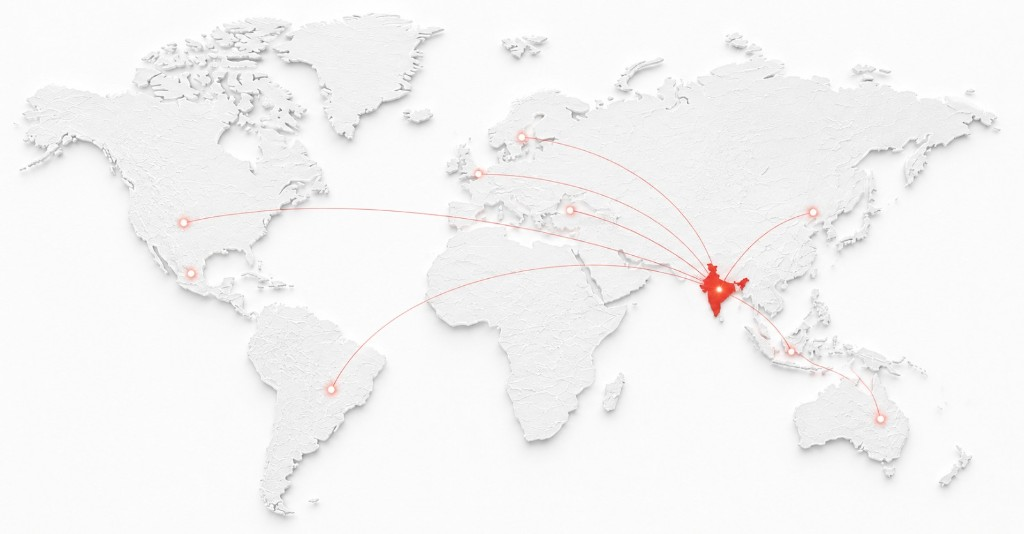
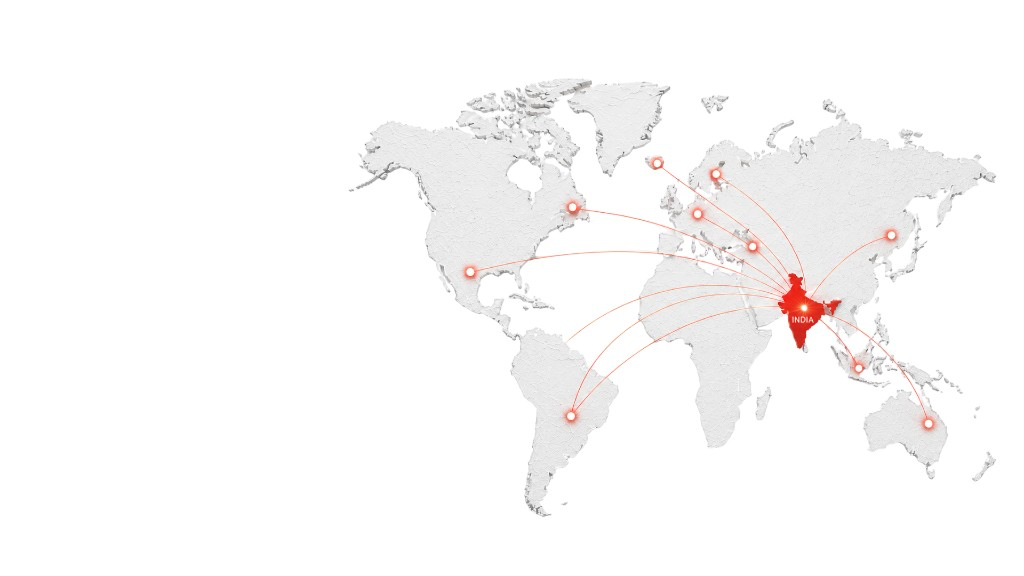
feat: Update HomePage hero section and content for enhanced user engagement
- Replaced the hero section background image with a new version for improved visuals.
- Adjusted image attributes for better accessibility and responsiveness.
- Refined the linear gradient overlay for a more appealing aesthetic.
- Enhanced content structure by updating headings, descriptions, and adding a call-to-action link to the About page.

diff --git a/src/components/home/HomePage.js b/src/components/home/HomePage.js
@@ -13,12 +13,13 @@ function Hero() {
       <div className="absolute inset-0 z-0 bg-white">
         <Image
           src="/images/hero-global-map.png"
-          alt="Bymer Elastomers global reach from India"
-          width={1024}
-          height={534}
+          alt=""
+          aria-hidden="true"
+          fill
           unoptimized
           priority
-          className="absolute right-0 top-1/2 -translate-y-1/2 h-full w-auto max-w-none object-contain object-right"
+          sizes="100vw"
+          className="object-contain object-right"
         />
       </div>
 
@@ -26,19 +27,26 @@ function Hero() {
         className="absolute inset-0 z-10 pointer-events-none"
         style={{
           background:
-            "linear-gradient(90deg, #ffffff 0%, #ffffff 32%, rgba(255,255,255,0.92) 45%, rgba(255,255,255,0.55) 58%, rgba(255,255,255,0.15) 72%, rgba(255,255,255,0) 85%)",
+            "linear-gradient(90deg, #ffffff 0%, #ffffff 30%, rgba(255,255,255,0.95) 42%, rgba(255,255,255,0.6) 55%, rgba(255,255,255,0.15) 70%, rgba(255,255,255,0) 82%)",
         }}
       />
 
       <div className="max-w-7xl mx-auto px-4 sm:px-6 lg:px-8 py-16 sm:py-20 lg:py-24 relative z-20 w-full">
-        <div className="flex flex-col items-start gap-4 sm:gap-5 max-w-xl">
-          <h1 className="font-title text-4xl sm:text-5xl lg:text-6xl font-black uppercase text-[#1c1b1b] leading-[1.05] tracking-tight">
+        <div className="flex flex-col items-start gap-5 sm:gap-6 max-w-xl pl-5 sm:pl-6 border-l-4 border-[#C75550]">
+          <h1 className="font-title text-4xl sm:text-5xl lg:text-[3.75rem] font-black uppercase text-[#1c1b1b] leading-[1.02] tracking-tight">
             Bymer{" "}
             <span className="text-[#C75550]">Elastomers</span>
           </h1>
-          <p className="font-body text-base sm:text-lg lg:text-xl text-[#4b5563] leading-relaxed">
+          <div className="w-14 h-1 bg-[#fbbd05]" />
+          <p className="font-body text-base sm:text-lg lg:text-xl text-[#4b5563] leading-relaxed max-w-md">
             We engineer reliable Elastomer Solutions
           </p>
+          <Link
+            href="/about"
+            className="btn-black font-montserrat py-4 px-8 text-xs font-bold tracking-[0.15em] uppercase self-start mt-1"
+          >
+            Discover More <span className="font-sans text-sm">→</span>
+          </Link>
         </div>
       </div>
     </header>
@@ -264,7 +272,7 @@ function JourneySection() {
       icon: "fa-solid fa-landmark",
       items: [
         "Established in 1978",
-        "40+ Years of Manufacturing Excellence",
+        "40+ Years of manufacturing excellence",
         "60+ Years of combined technical leadership",
       ],
     },
@@ -272,18 +280,18 @@ function JourneySection() {
       title: "INFRASTRUCTURE & CAPACITY",
       icon: "fa-solid fa-industry",
       items: [
-        "45,000 Sq. Ft. Manufacturing Infrastructure",
+        "45,000 Sq. Ft. manufacturing infrastructure",
         "2 Manufacturing units",
-        "In-House Compound Development & Mixing Capability",
+        "In-house compound development & mixing capability",
       ],
     },
     {
       title: "CUSTOMER REACH",
       icon: "fa-solid fa-globe",
       items: [
-        "50+ Customers Across India and Global Markets",
-        "OEM & Industrial Manufacturing Expertise",
-        "Long-Term manufacturing partnerships",
+        "50+ customers across India and global markets",
+        "OEM & industrial manufacturing expertise",
+        "Long-term manufacturing partnerships",
       ],
     },
     {